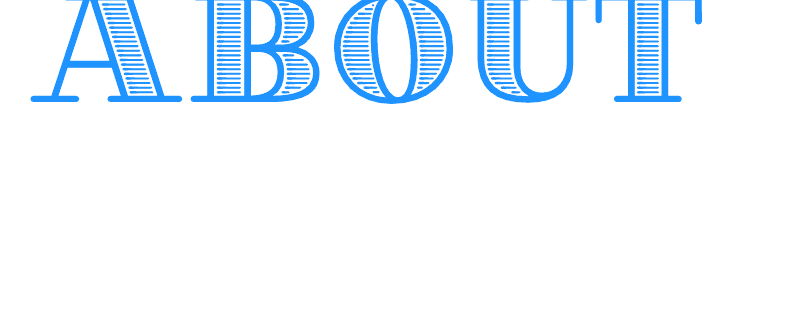
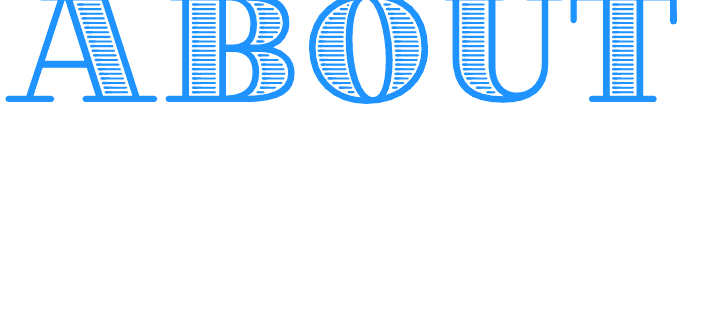
8

Changed region(s): [[0.0, 0.0, 0.9858, 0.3416]]

diff --git a/Unit_8/style.css b/Unit_8/style.css
@@ -53,11 +53,11 @@ main {
 }
 
 #right {
-   
+    background-image: url("https://github.com/rorymagurran/rorymagurran.github.io/");   
     border: none;
     padding: 20px;
     float: left;
-    width: 30%;
+    width: 15%;
     font-size: 35px;
     font-family: 'bangers', sans-serif;
 }

diff --git a/Unit_8/index.html b/Unit_8/index.html
@@ -25,7 +25,7 @@
 <section id="two_column" class="clearfix">
 
 <aside id="right">
-	<img src="about.png" style="width:300px; height:300px" alt="about">
+	<img src="about.png"  alt="about">
 </aside>
 
 <article id="left">
